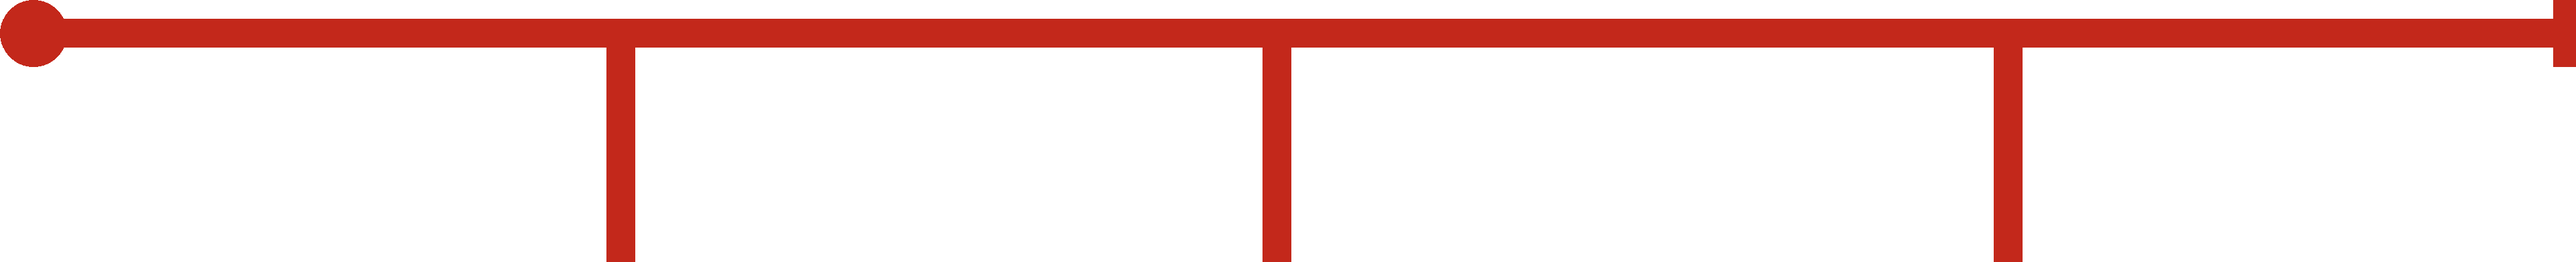
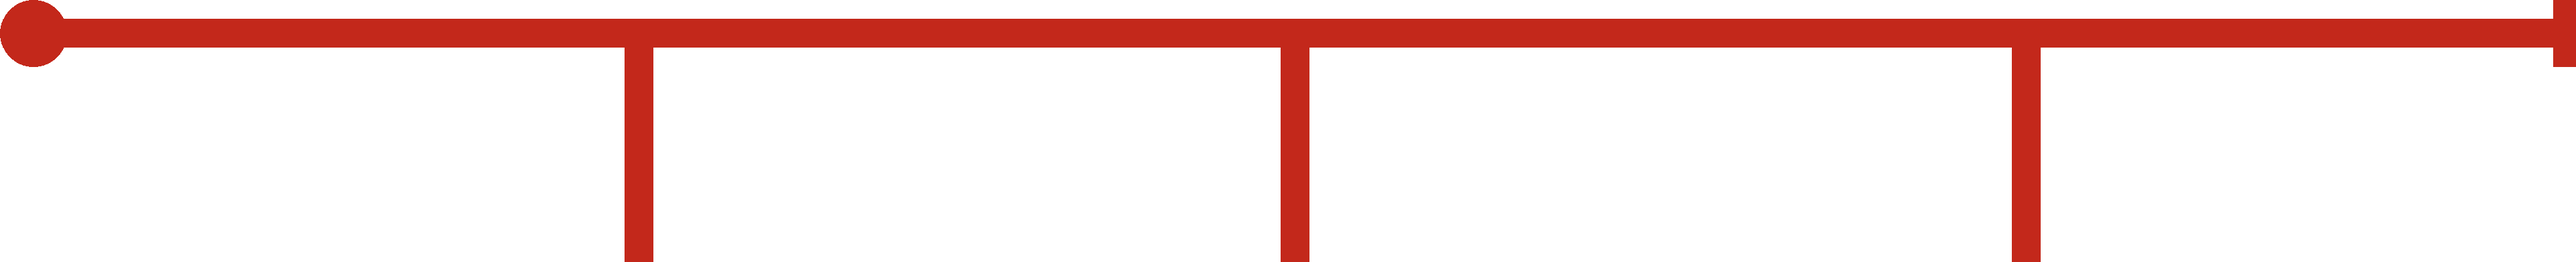
Improve timeline and add for release site

Changed region(s): [[0.75, 0.1841, 0.8125, 1.0], [0.4688, 0.1841, 0.5312, 1.0], [0.2188, 0.1841, 0.2812, 1.0]]

diff --git a/release.html b/release.html
@@ -66,6 +66,31 @@
 </nav>
 <main>
     <div class="container">
+        <div id="plan" class="row">
+            <div class="col-xs-12">
+                <div id="timeline">
+                    <div id="tiles">
+                        <p></p>
+                    </div>
+                    <img class="full-width" src="img/timeline.png" alt="Basic Timeline">
+                    <div id="dates">
+                        <div class="col-sm-2 offset-sm-2">
+                            <h5>15.09.2018</h5>
+                            <h4>Trailer</h4>
+                        </div>
+                        <div class="col-sm-4">
+                            <h5>08.01.2019</h5>
+                            <h4>Erste Demo</h4>
+                        </div>
+                        <div class="col-sm-3">
+                            <h5>03.05.2019</h5>
+                            <h4>Beta-Release</h4>
+                        </div>
+                    </div>
+                </div>
+            </div>
+        </div>
+        <hr>
         <div id="Information" class="row">
             <div class="col">
                 <h1><p class="text-center">Information</p></h1>

diff --git a/index.html b/index.html
@@ -52,16 +52,16 @@
             <p></p>
           </div>
           <img class="full-width" src="img/timeline.png" alt="Basic Timeline">
-          <div id="dates" class="col-xs-12">
-            <div class="col-xs-4 col-sm-4 col-md-4 col-lg-4 col-xl-4">
+          <div id="dates">
+            <div class="col-sm-2 offset-sm-2">
               <h5>15.09.2018</h5>
               <h4>Trailer</h4>
             </div>
-            <div class="col-xs-4 col-sm-4 col-md-4 col-lg-4 col-xl-4">
+            <div class="col-sm-4">
               <h5>08.01.2019</h5>
               <h4>Erste Demo</h4>
             </div>
-            <div class="col-xs-4 col-sm-4 col-md-4 col-lg-4 col-xl-4">
+            <div class="col-sm-3">
               <h5>03.05.2019</h5>
               <h4>Beta-Release</h4>
             </div>

diff --git a/css/style.css b/css/style.css
@@ -170,6 +170,10 @@ main {
   padding-bottom: 5%;
 }
 
+#timeline img {
+  margin-bottom: 1.5em;
+}
+
 #tiles {
   position: absolute;
   top: 192px;
@@ -190,9 +194,14 @@ main {
   display: inline-block;
 }
 
+#dates {
+  font-size: 0;
+}
+
 #dates div {
   display: inline-block;
   text-align: center;
+  overflow: hidden;
 }
 
 #iphone {
